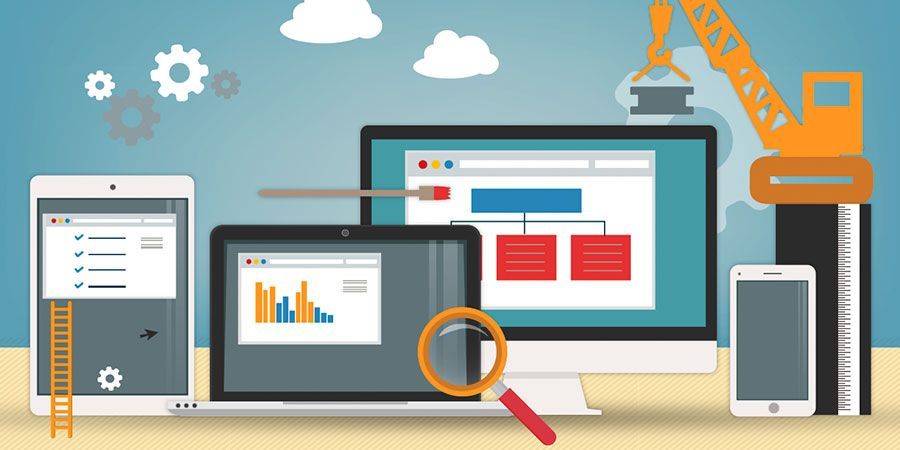
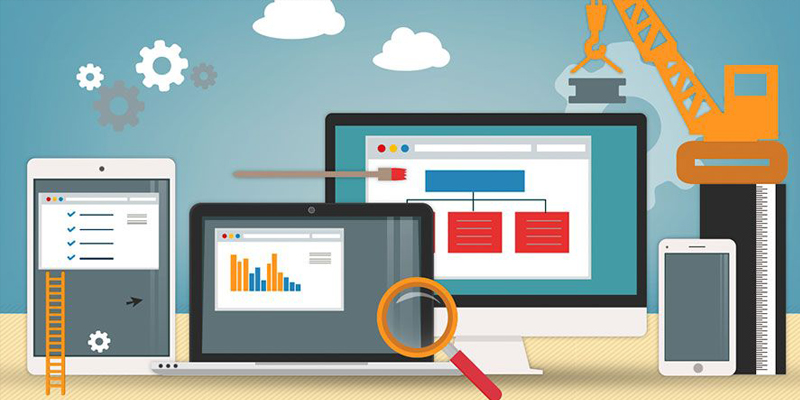
Art. O que é DNS

diff --git a/assets/css/home.scss b/assets/css/home.scss
@@ -11,12 +11,27 @@
 #post-list {
   margin-top: 1rem;
   padding-right: 0.5rem;
+  display: grid !important;
+  grid-template-columns: 1fr 1fr 1fr  !important;
+  gap: 20px;
 
+ 
+
+
+  
   .post-preview {
     padding-top: 1.5rem;
     padding-bottom: 1rem;
     border-bottom: 1px solid var(--main-border-color);
 
+    figure{
+    
+      border-radius:5px;
+      overflow: hidden;
+      max-width: 100%;
+      clear: both;
+
+    }
     h1 {
       font-size: 1.4rem;
       margin: 0;
@@ -113,8 +128,15 @@
   }
 }
 
+
 /* Hide SideBar and TOC */
 @media all and (max-width: 830px) {
+  #post-list {
+
+    grid-template-columns: 1fr 1fr !important;
+  
+  }
+
   .pagination {
     justify-content: center;
   }

diff --git a/_layouts/home.html b/_layouts/home.html
@@ -49,7 +49,11 @@ layout: page
 {% for post in posts %}
 
   <div class="post-preview">
+    <figure><img src="{{post.image}}" /></figure>
     <div class="d-flex justify-content-between pr-xl-2">
+
+     
+
       <h1><a href="{{ post.url | relative_url }}">{{ post.title }}</a></h1>
       {% if post.pin == true %}
         <i class="fas fa-thumbtack fa-fw text-muted mt-1 ml-2 mt-xl-2" data-toggle="tooltip" data-placement="left"

diff --git a/_layouts/page.html b/_layouts/page.html
@@ -12,6 +12,7 @@ layout: default
     <div id="page" class="post pb-5 pl-1 pr-1 pl-sm-2 pr-sm-2 pl-md-4 pr-md-4 mb-md-4">
     {% if page.dynamic_title %}
       <h1 class="dynamic-title">{{ page.title }}</h1>
+     
       <div class="post-content">
         {{ content }}
       </div>

diff --git a/_posts/Dicionário/2020-11-29-o-que-e-dns.md b/_posts/Dicionário/2020-11-29-o-que-e-dns.md
@@ -1,0 +1,70 @@
+---
+title: O que é DNS?
+
+date: 2020-12-01 15:00:00
+categories: [Dicionário do Programador]
+tags: [DNS, IP]
+math: true
+image: /assets/img/posts/o-que-e-dns-01.jpg
+---
+
+# O que é?
+
+Existe uma boa analogia que resume a função do DNS que é:
+<em>"DNS é uma especie de lista telefônica da internet"</em>,
+É uma boa comparação já que a função do DNS é assim como numa lista telefonica associar Associar um "Nome" a um "Número". Assim chamamos esse Nome de "Domínio" e o Númeo de IP (Internet Protocol).
+
+Essa necessidade de conversão entre Domínio para um número de IP existe somente por que diferente dos humanos os computadores trabalham essencialmete com números, assim tanto a indentificação de um endereço é feita atraves de um número o IP.
+Apesar de funcionar bem para computadores para nós (humanos) memorizar endereços de IP como 192.168.1.1 (no IPv4) ou endereços IP alfanuméricos mais complexos e mais recentes, como 2400:cb00:2048:1::c629:d7a2 (no IPv6) é algo estremamente dificil e por esse motivo que os Servidores DNS são essênciais.
+
+# Como surgiu?
+
+No final dos anos 70 e inicio dos 1980 o número de computadores conectados crescia rapidamente o que gerou um problema na indentificação e comunicação. ja que para se conectar com outro computar era preciso saber seu endereço de IP, assim foi deixa a cardo do cientista <em>Paul Mockapetris</em> e sua equipe a busca por uma solução.
+Foi quando ainda no ano de de 1983 eles criaram um sistema que era capaz de atribuir e conferir em uma espêcie de lista, nomes associados a IPS assim nascia o DNS, que até hoje é um dos principios fundamentais da internet.
+
+# Como funciona?
+
+Todo dispositivo contectado a rede tem um edereço de IP único para que possa ser indentificado, então quando digitamos um dominio como "teste.com" o que estamos realmente fazendo é buscar um determinado "computador" na rede mundial de computadores, ou seja na Internet. esse nome pesquisado é uma especie de etiqueta que está atribuido a um número de indentificação de um determinado computador ou simplesmente o IP.
+Para fazer essa pesquisa utilizamos antes de mais nada o nosso Browser, que antes de mais nada ira conferir no cash e depois localmente se aquele dominino/hostname esta associado algum IP, caso não esteja então ele enviara uma requisição para um Servidor DNS onde esse ira procurar em uma espercie de lista se quele domínio esta associado a algum endereço de IP, caso esteja ele retornara o número do IP, permitindo que assim o navegador faça a requisição com o servidor correto através de uma conexão HTTP onde este ira retornar o conteúdo solicitado.
+
+# Quem é o responsável pelo DNS?
+
+A organização responsável por atribuir nomes de domínios a endereços IPs no mundo todo é a ICANN (Internet Corporation for Assigned Names and Numbers), ou Corporação da Internet para Atribuição de Nomes e Números, em português. saiba mais sobre a ICANN [aqui](https://pt.wikipedia.org/wiki/Corpora%C3%A7%C3%A3o_da_Internet_para_Atribui%C3%A7%C3%A3o_de_Nomes_e_N%C3%BAmeros).
+
+<!--
+# Divisão de um Servidor DNS.
+
+# O que é um Origin Server?
+
+# O que é um CDN edge Server?
+
+# O que são esses servidores?
+
+A server is a device or program dedicated to providing services to other programs, referred to as ‘clients’. DNS clients, which are built into most modern desktop and mobile operating systems, enable web browsers to interact with DNS servers. For more, see The Client-Server Model.
+
+How do DNS servers resolve a DNS query?
+In a typical DNS query without any caching, there are four servers that work together to deliver an IP address to the client: recursive resolvers, root nameservers, TLD nameservers, and authoritative nameservers.
+
+The DNS recursor (also referred to as the DNS resolver) is a server that receives the query from the DNS client, and then interacts with other DNS servers to hunt down the correct IP. Once the resolver receives the request from the client, the resolver then actually behaves as a client itself, querying the other three types of DNS servers in search of the right IP.
+
+DNS Lookup
+First the resolver queries the root nameserver. The root server is the first step in translating (resolving) human-readable domain names into IP addresses. The root server then responds to the resolver with the address of a Top Level Domain (TLD) DNS server (such as .com or .net) that stores the information for its domains.
+
+Next the resolver queries the TLD server. The TLD server responds with the IP address of the domain’s authoritative nameserver. The recursor then queries the authoritative nameserver, which will respond with the IP address of the origin server.
+
+The resolver will finally pass the origin server IP address back to the client. Using this IP address, the client can then initiate a query directly to the origin server, and the origin server will respond by sending website data that can be interpreted and displayed by the web browser.
+
+What is DNS Caching?
+In addition to the process outlined above, recursive resolvers can also resolve DNS queries using cached data. After retrieving the correct IP address for a given website, the resolver will then store that information in its cache for a limited amount of time. During this time period, if any other clients send requests for that domain name, the resolver can skip the typical DNS lookup process and simply respond to the client with the IP address saved in the cache.
+
+Once the caching time limit expires, the resolver must retrieve the IP address again, creating a new entry in its cache. This time limit, referred to as the time-to-live (TTL) is set explicitly in the DNS records for each site. Typically the TTL is in the 24-48 hour range. A TTL is necessary because web servers occasionally change their IP addresses, so resolvers can’t serve the same IP from the cache indefinitely.
+
+What happens when DNS servers fail?
+DNS servers can fail for multiple reasons, such as power outages, cyberattacks, and hardware malfunctions. In the early days of the Internet, DNS server outages could have a relatively large impact. Thankfully, today there is a lot of redundancy built into DNS. For example, there are many instances of the root DNS servers and TLD nameservers, and most ISPs have backup recursive resolvers for their users. (Individual users can also use public DNS resolvers, like Cloudflare’s 1.1.1.1.) Most popular websites also have multiple instances of their authoritative nameservers.
+
+In the case of a major DNS server outage, some users may experience delays due to the amount of requests being handled by backup servers, but it would take a DNS outage of very large proportions to make a significant portion of the Internet unavailable. (This actually happened in 2016 when DNS provider Dyn experienced one of the biggest DDoS attacks in history). Cloudflare offers a Managed DNS Service that comes with built-in DNS security aimed at protecting DNS servers from attacks as well as other common sources of server failure.
+
+
+
+
+-->

diff --git a/_posts/_drafts/2020-11-29-o-que-e-ip.md b/_posts/_drafts/2020-11-29-o-que-e-ip.md
@@ -1,0 +1,22 @@
+---
+title: O que é IP?
+
+date: 2020-12-01 15:00:00
+categories: [Dicionário do Programador]
+tags: [DNS, IP]
+math: true
+image: /assets/img/posts/incompleto.jpg
+---
+
+Da mesma forma que um endereço completo os IPs possuem partes.
+
+IPs tem 32 bits de tamanho, divididos em 4 partes de 8 bits.
+8 bits para País/Network
+8 bits para Região/Network
+8 bits para Subnetwork
+8 bits para Dispositivo
+
+A pouco tempo ainda usavamos o IP versão 4 ou seja o IPv4 que surgiu em 1973, amplamente usado apartir dos anos 80.
+O IPv4 tem uma capacidade de fornecer mais de 4 bilhões de endereços únicos. o que apesar de ser muito, não é mais suficiente para os muitos bilhões de paralhos que existem.
+assim usamos atualmente o IP versão 6 (Não me pergute o que aconteceu com a versão 5).
+O IPv6 que possui 128 bits. que tem a capacidade de prover mais de 340 DECILHÕES! mais do que grãos de areia na terra!

diff --git a/_posts/_drafts/2020-11-29-o-que-e-django.md b/_posts/_drafts/2020-11-29-o-que-e-django.md
@@ -1,0 +1,16 @@
+---
+title: O que é o Django?
+
+date: 2020-12-01 5:00:00
+categories: [Dicionário do Programador]
+tags: [Django, Python]
+math: true
+image: /assets/img/posts/incompleto.jpg
+---
+
+O que é
+Django é um framework web feito em python para gerar aplicações web, desenvolvido por uma empresa jornalistica com o intuito de gerenciar
+sites.
+Pra que serve
+
+Como usar

diff --git a/_posts/JS/2019-08-01-tipos-de-dados-javascript.md b/_posts/JS/2019-08-01-tipos-de-dados-javascript.md
@@ -5,7 +5,7 @@ date: 2019-07-08
 categories: Javascript
 tags: [Tipos Primitivos, Tipo Objeto]
 math: true
-image: /assets/img/posts/tipos-de-dados-javascript.png
+image: /assets/img/posts/tipos-de-dados-javascript.jpg
 ---
 
 Em Javascript ou qualquer outra linguagem temos a necessidade de armazenas e manipular dados, informações, etc.

diff --git a/_posts/JS/Códigos-úteis/2020-11-29-como-executa-javascript-somente-depois-do-documento-carregar-javascript.md b/_posts/JS/Códigos-úteis/2020-11-29-como-executa-javascript-somente-depois-do-documento-carregar-javascript.md
@@ -5,7 +5,7 @@ date: 2020-11-30
 categories: Javascript
 tags: [Códigos Úteis, Tips]
 
-image: /assets/img/posts/JS-tips.png
+image: /assets/img/posts/JS-tips.jpg
 ---
 
 Em JQuery temos a possibilidade de executar scripts no documento somente depois que todo o conteúdo já está carregado, com o comando:

diff --git a/_posts/Dicionário/2019-08-08-tipagens-e-inferencias-de-tipo-em-programacao.md b/_posts/Dicionário/2019-08-08-tipagens-e-inferencias-de-tipo-em-programacao.md
@@ -13,7 +13,7 @@ tags:
     Tipagem Estática,
   ]
 math: true
-image: /assets/img/posts/tipagens-e-inferencias-de-tipo-em-programacao.png
+image: /assets/img/posts/tipagens-e-inferencias-de-tipo-em-programacao.jpg
 ---
 
 ## Inferência de Tipo

diff --git a/_posts/Dicionário/2020-11-29-tabela-ascii.md b/_posts/Dicionário/2020-11-29-tabela-ascii.md
@@ -5,7 +5,7 @@ date: 2020-11-29
 categories: [Dicionário do Programador]
 tags: [ASCII]
 math: true
-image: /assets/img/posts/a-tabela-ascii-01.png
+image: /assets/img/posts/a-tabela-ascii-01.jpg
 ---
 
 <!-- wp:paragraph -->
